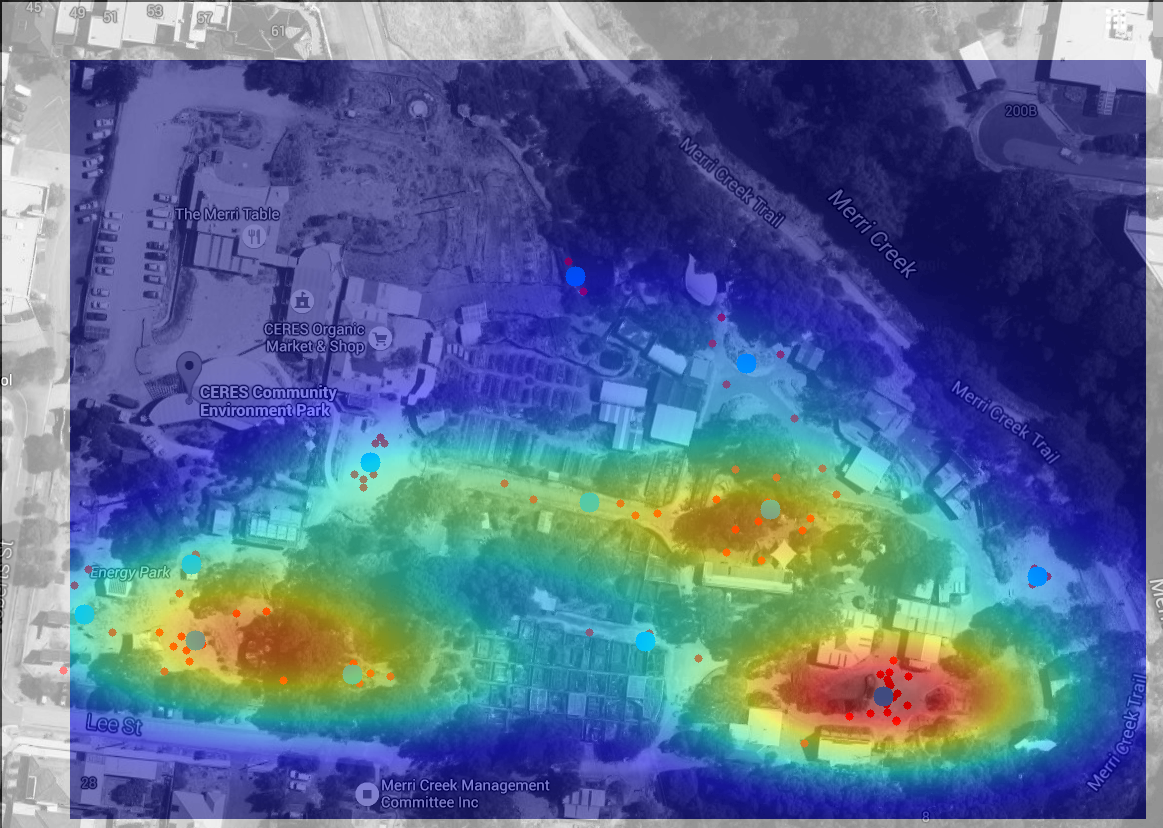
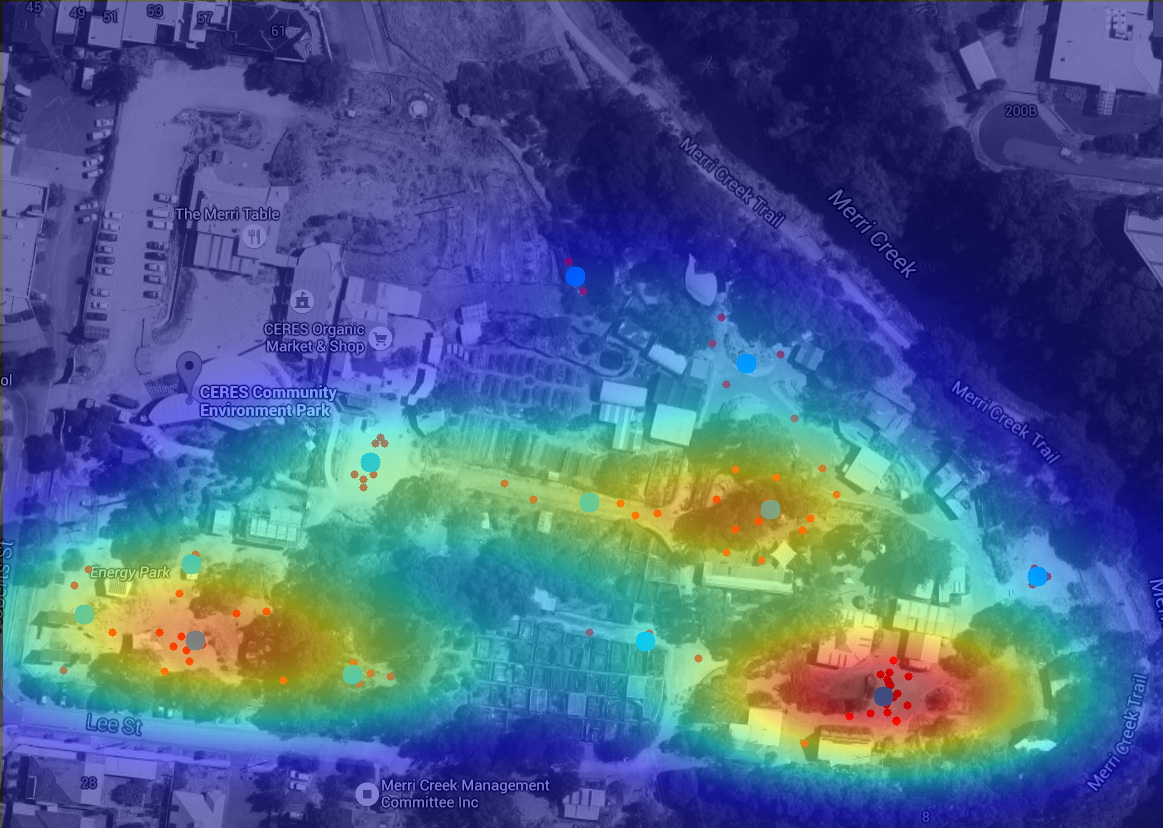
Heatmap now fully operational.

diff --git a/iqp.py b/iqp.py
@@ -5,10 +5,12 @@ import numpy as np
 import cv2
 from sklearn.cluster import KMeans
 
+# heat maps
 import matplotlib.pyplot as plt
 from scipy.stats import kde
 
-from PIL import Image
+# rotating, scaling, and cropping
+from PIL import Image, ImageChops
 
 
 #images are 1163 x 828
@@ -48,7 +50,7 @@ def main(n_observations, n_clusters, n_bins):
     cv2.imwrite('output/raw_data.png', output_img - base_img)
     for x, y in kmeans.cluster_centers_:
         cv2.circle(output_img, (int(y), int(x)), 10, (255,150,0), -1)
-    cv2.imshow('image', output_img)
+    #cv2.imshow('image', output_img)
     cv2.imwrite('output/output_clusters.png', output_img)
     cv2.imwrite('output/raw_clusters.png', output_img - base_img)
 
@@ -67,26 +69,31 @@ def heat_map(data, n_bins, output_img):
     zi = k(np.vstack([xi.flatten(), yi.flatten()]))
 
     #axes.set_title('Gaussian KDE')
-    axes.pcolormesh(xi, yi, zi.reshape(xi.shape))
     plt.ylim((x_min, x_max))
     plt.xlim((y_min, y_max))
     plt.axis('off')
-    fig.tight_layout()
-    plt.savefig('output/foo.png', bbox_inches='tight')
-    plt.show()
-
-    #rotate clockwise 
-    #img = cv2.imread('', cv2.IMREAD_COLOR)
+    axes.pcolormesh(xi, yi, zi.reshape(xi.shape))
+    #fig.tight_layout()
+    plt.savefig('output/foo.png', bbox_inches='tight', pad_inches=0)
+    #plt.show()
     
-    src_im = Image.open("output/foo.png")
-    angle = 270
-    size = x_max, y_max
+    im = Image.open("output/foo.png")
 
+    # remove whitespace
+    bg = Image.new(im.mode, im.size, im.getpixel((0,0)))
+    diff = ImageChops.difference(im, bg)
+    diff = ImageChops.add(diff, diff, 2.0, -100)
+    bbox = diff.getbbox()
+    im = im.crop(bbox)
+
+    angle = 270
+    w, h = im.size
     #dst_im = Image.new("RGBA", (x_max, y_max), "blue" )
-    im = src_im.convert('RGBA')
-    rot = im.rotate( angle, expand=1 ).resize(size)
+    im = im.convert('RGBA')
+    im = im.rotate( angle, expand=1 )
+    im = im.resize((x_max, y_max))
     #dst_im.paste( rot, (50, 50), rot )
-    rot.save("output/new_foo.png")
+    im.save("output/new_foo.png")
 
     heat_img = cv2.imread('output/new_foo.png', cv2.IMREAD_COLOR)
     dst = cv2.addWeighted(output_img, 0.5, heat_img, 0.5, 0)

diff --git a/crop.py b/crop.py
@@ -1,0 +1,14 @@
+from PIL import Image, ImageChops
+
+#http://stackoverflow.com/questions/19271692/removing-borders-from-an-image-in-python
+im = Image.open('output/foo.png')
+
+def trim(im):
+	bg = Image.new(im.mode, im.size, im.getpixel((0,0)))
+   	diff = ImageChops.difference(im, bg)
+   	diff = ImageChops.add(diff, diff, 2.0, -100)
+	bbox = diff.getbbox()
+   	if bbox:
+   		return im.crop(bbox)
+
+trim(im).show()
